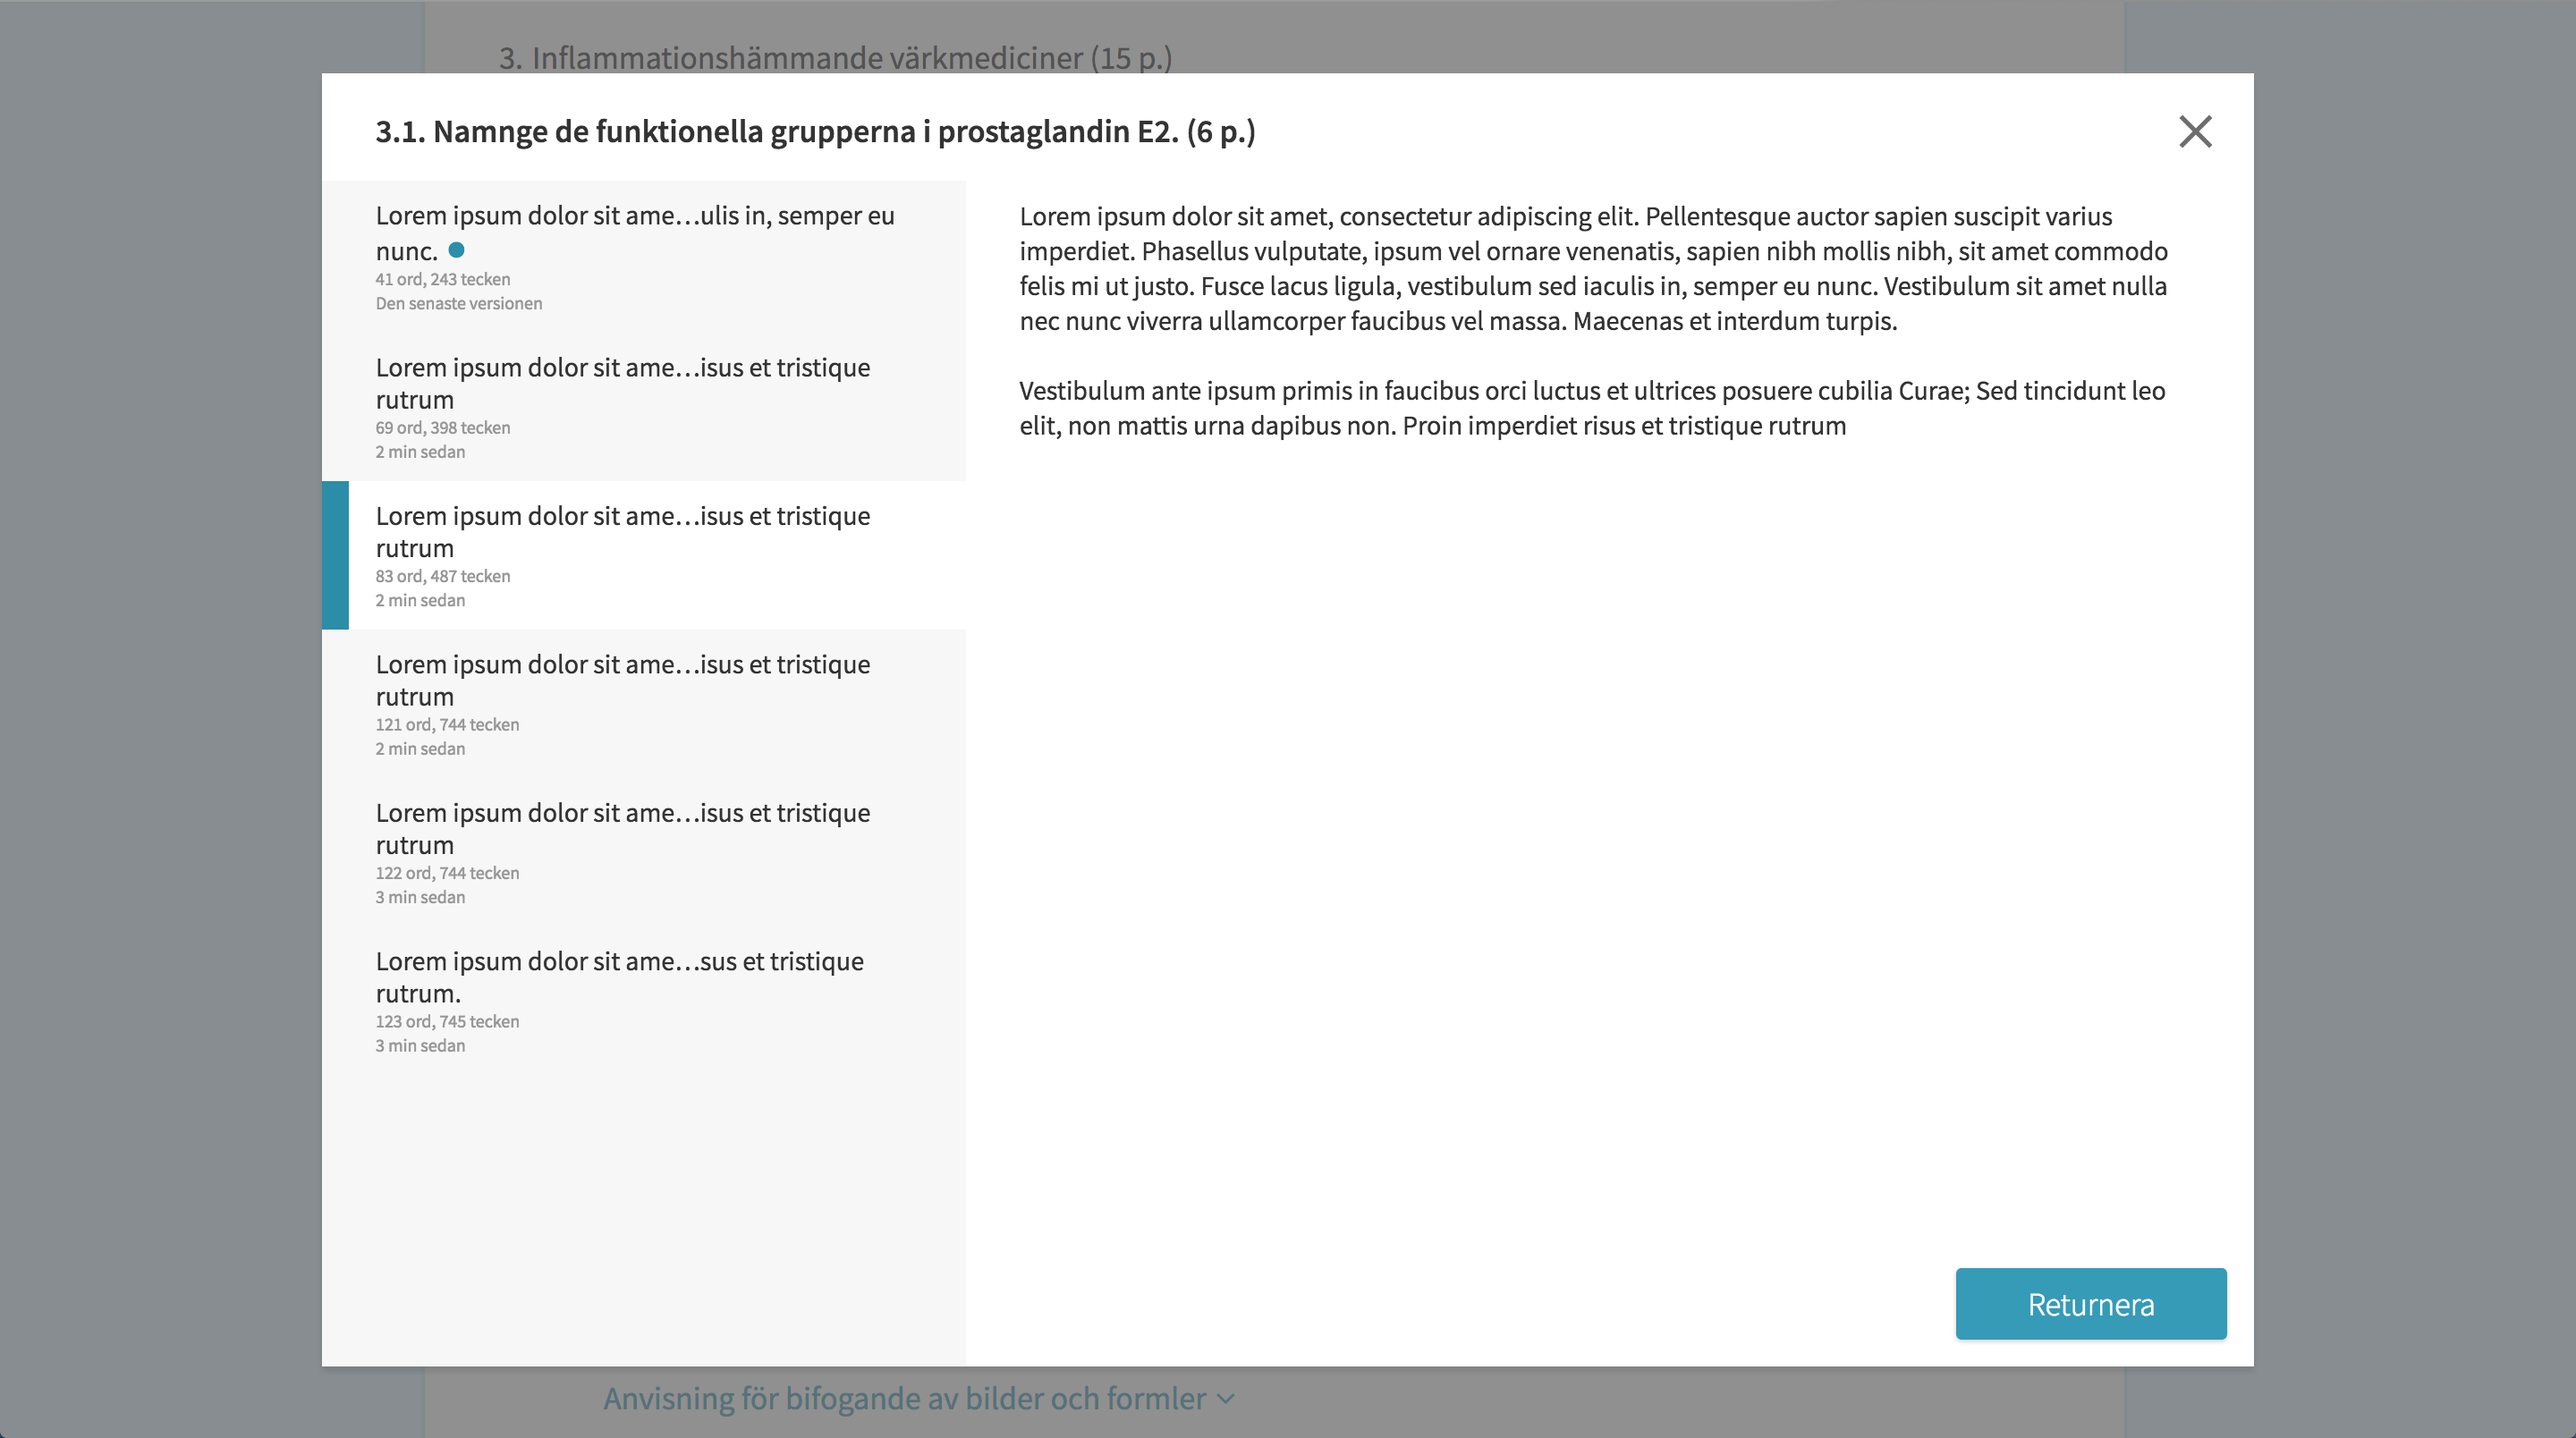
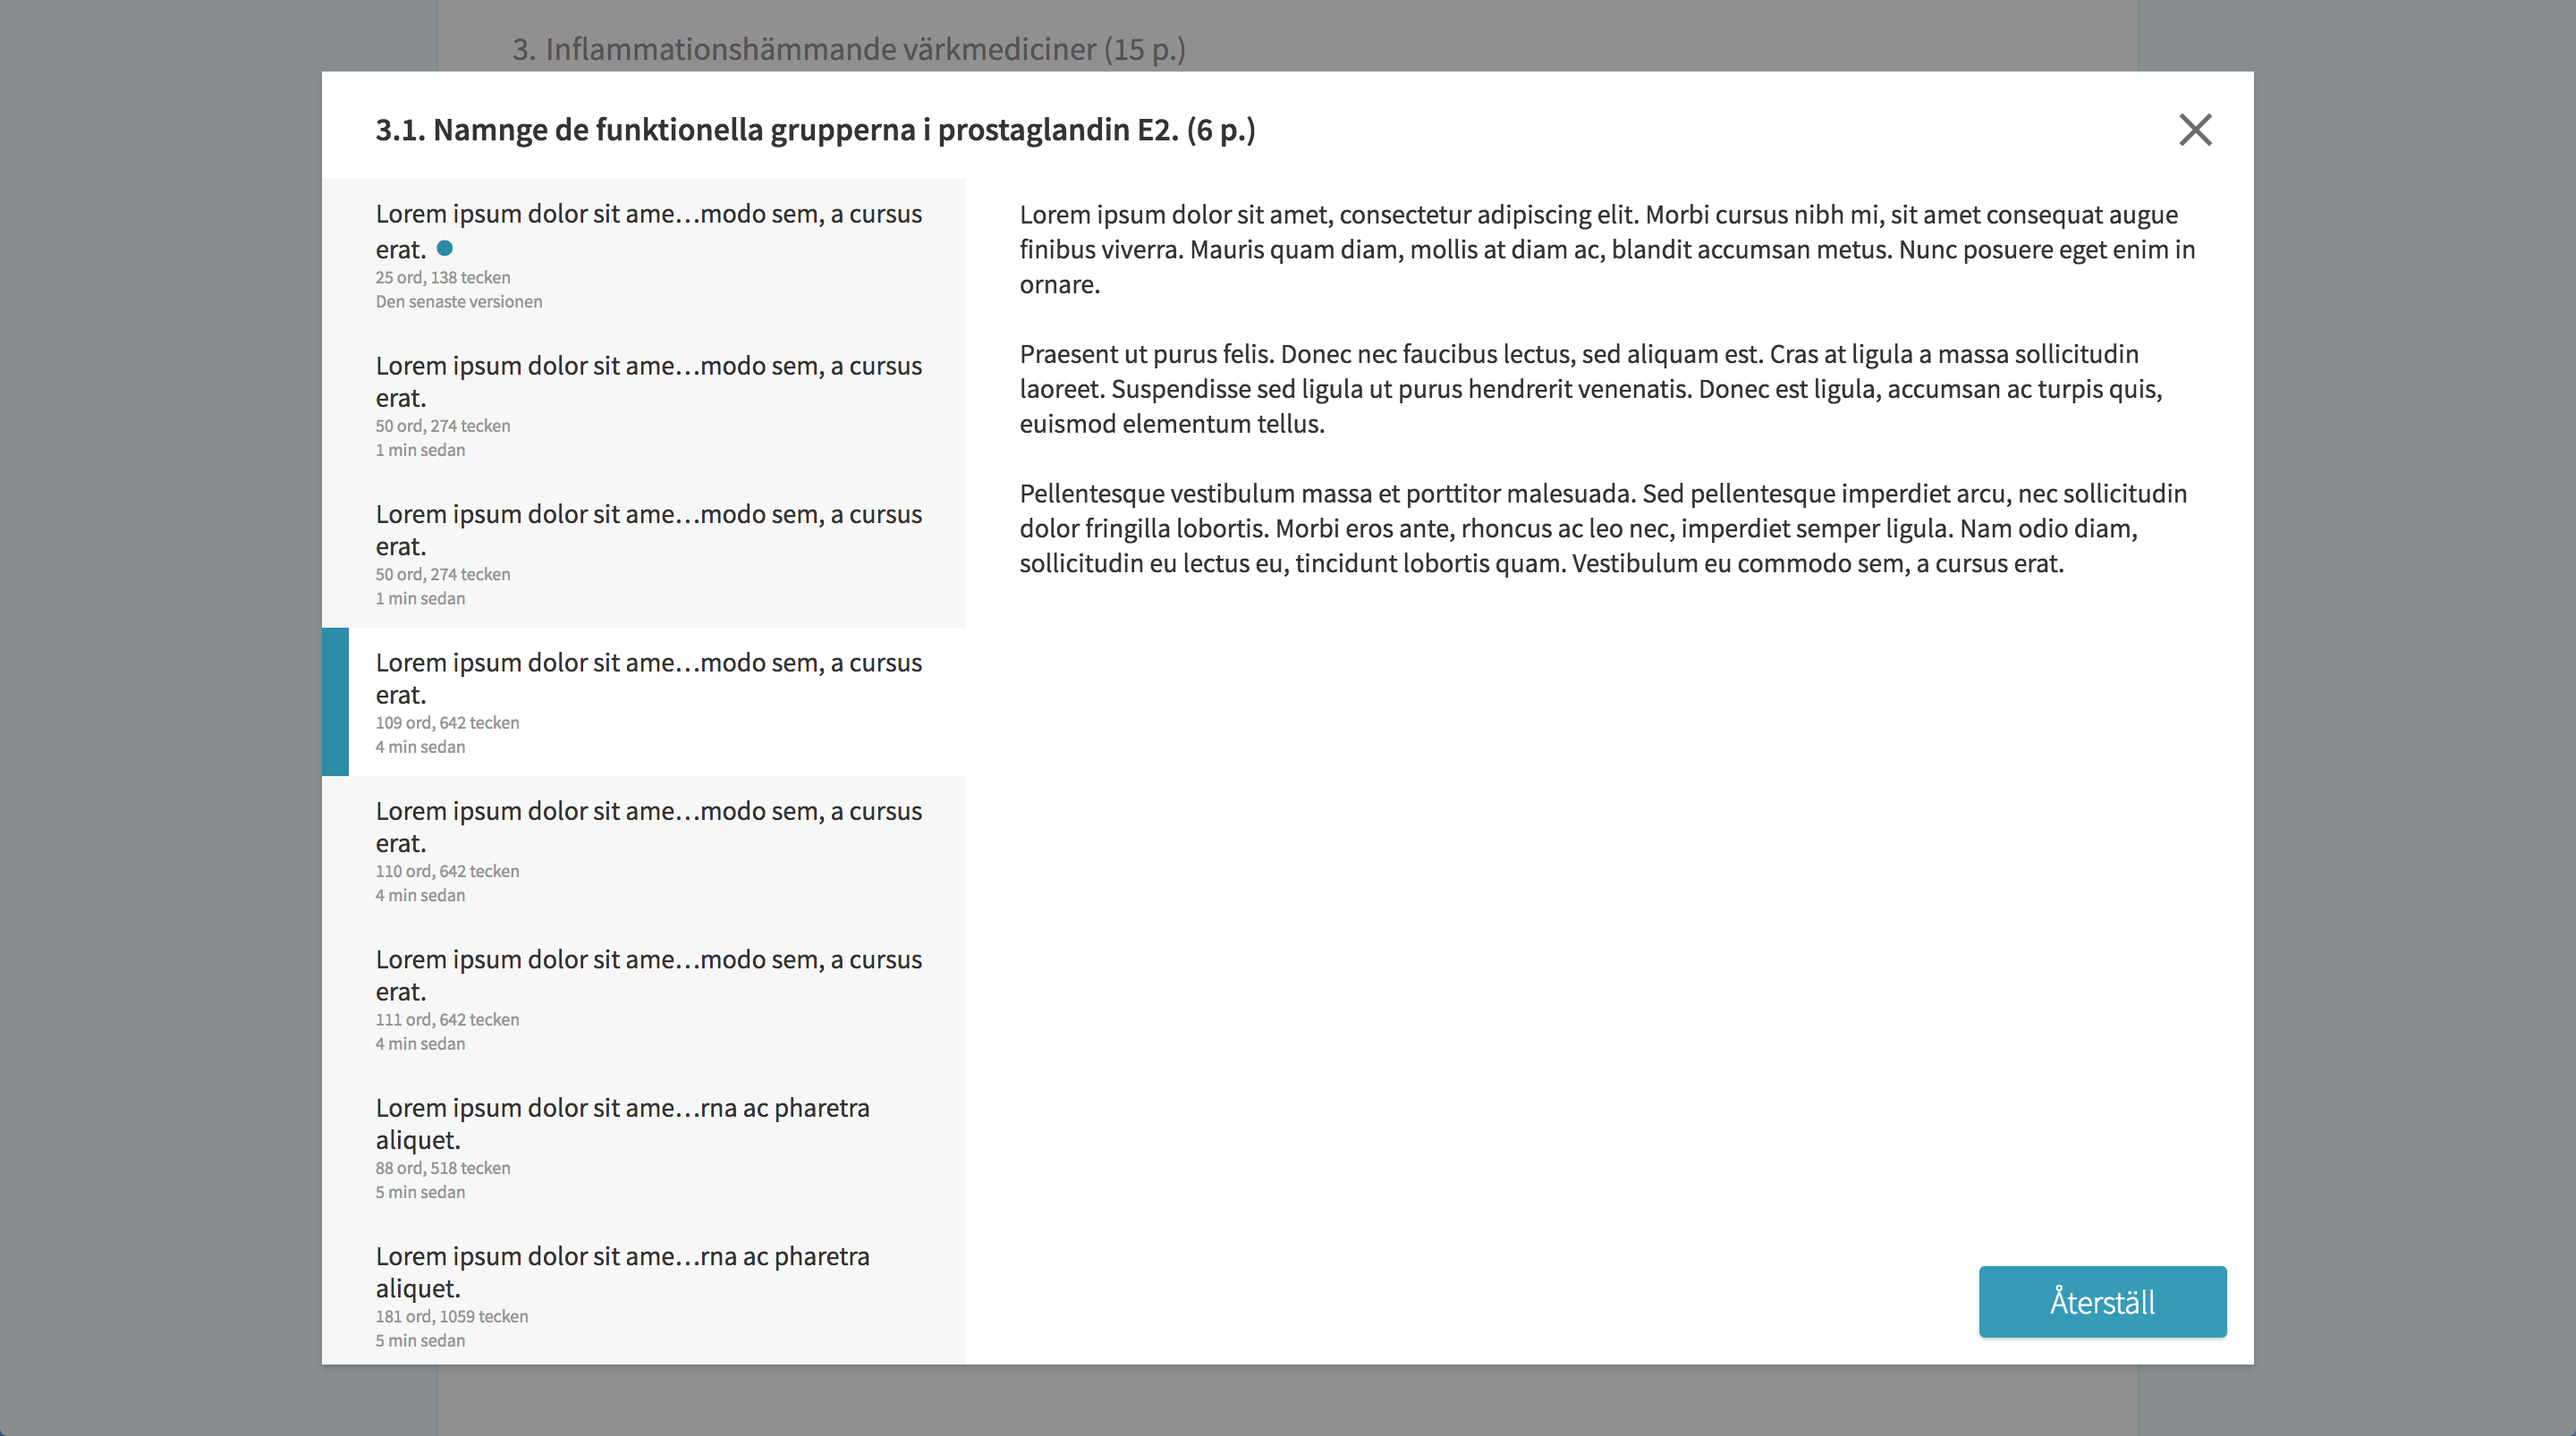
Change image

diff --git a/content/tab-abitti.html b/content/tab-abitti.html
@@ -98,12 +98,12 @@
 					<img src="../common/images/undo/lank-sv.png" alt="" width="95%" /> </li>
 				<li class="fi">Valitse vastauskentässä aiemmin ollut sisältö ja paina "Palauta". <br />
 					<img src="../common/images/undo/palauta-fi.png" alt="" width="95%" /> </li>
-				<li class="sv"> Välj ett tidigare innehåll av svarsfältet och tryck på "Returnera". <br />
+				<li class="sv">Välj ett tidigare innehåll av svarsfältet och tryck på "Återställ".  <br />
 					<img src="../common/images/undo/returnera-sv.png" alt="" width="95%" /> </li>
 			</ol>
 
             <h2 class="fi">Kuvakaappauksen liittäminen vastaukseen</h2>
-            <h2 class="sv">Bifoga en skärmdump till svaret </h2>
+            <h2 class="sv">Bifoga en skärmdump till svaret</h2>
 
             <p class="fi">Videossa ei ole ääntä.</p>
             <p class="sv">Videon saknar ljud.</p>
